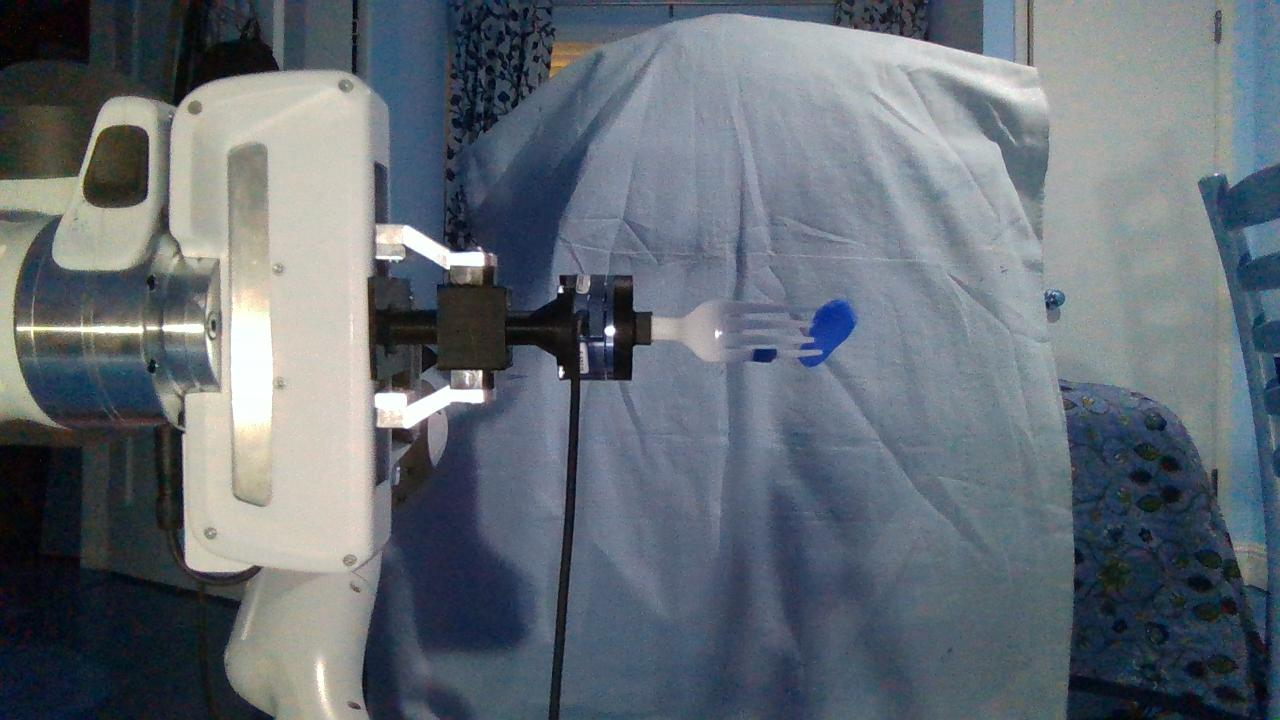
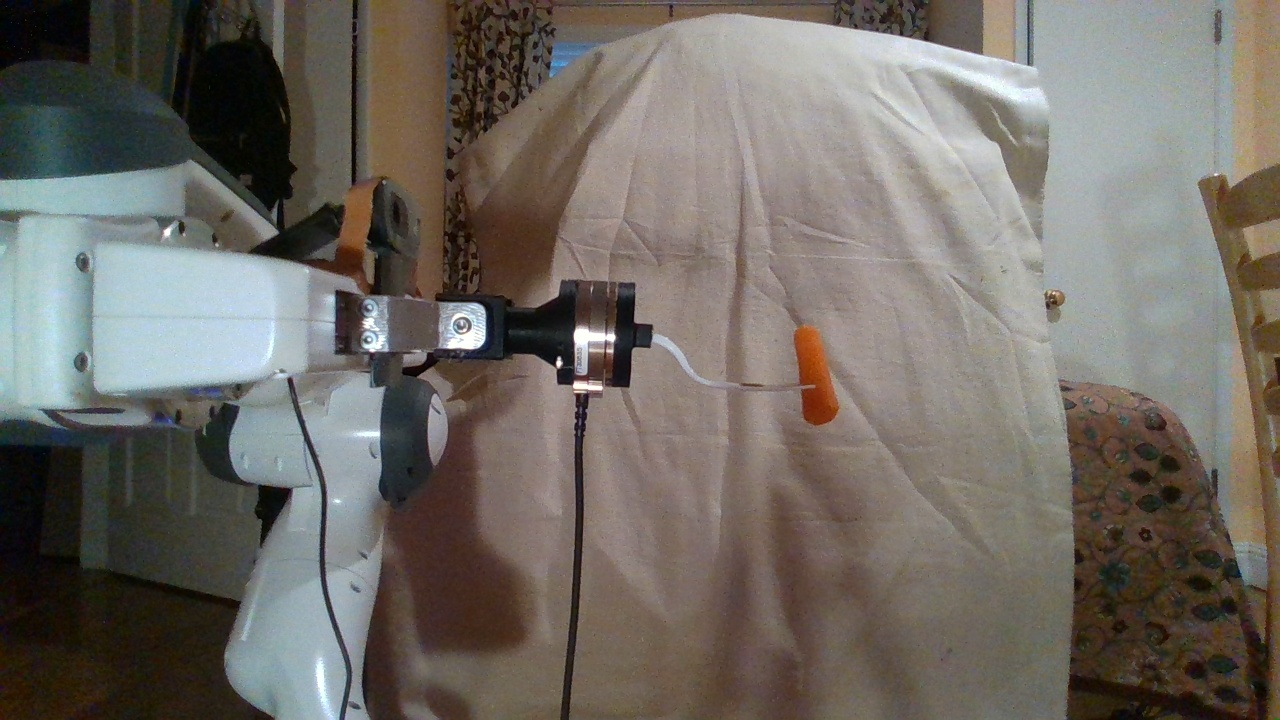
able to use opencv to filter out carrot and open3d to draw bounding box

diff --git a/point_carrot.py b/point_carrot.py
@@ -2,12 +2,72 @@ import open3d as o3d
 import matplotlib.pyplot as plt
 import numpy as np
 from PIL import Image
+import numpy as np
+import cv2
 
 data = np.load('carrot_rs_data_1.npz')
-color_img = Image.fromarray(data["rgb_images"][0], 'RGB')
-depth_img = Image.fromarray(data["depth_images"][0], 'L')
-color_img.save('color_carrot.jpg')
-depth_img.save('depth_carrot.png')
+#data = np.load('box_rs_data.npz')
+for k in data.files:
+	print(k)
+rgb_img = data["rgb_images"][1]
+depth_img = data["depth_images"][1]
+
+# convert to hsv. otsu threshold in s to remove plate
+hsv_img = cv2.cvtColor(rgb_img, cv2.COLOR_BGR2HSV)
+h,s,v = cv2.split(hsv_img)
+background = cv2.inRange(hsv_img, np.array([0,0,0]), np.array([200,190,255]))
+not_background = cv2.bitwise_not(background)
+fruit = cv2.bitwise_and(rgb_img,rgb_img,mask = not_background)
+
+#cv2.imshow('fruit',fruit)
+#cv2.waitKey(0)
+
+fruit_bw = cv2.cvtColor(fruit, cv2.COLOR_BGR2GRAY)
+fruit_bin = cv2.inRange(fruit_bw, 10, 255) #binary of fruit
+
+# #erode before finding contours
+kernel = cv2.getStructuringElement(cv2.MORPH_ELLIPSE,(3,3))
+erode_fruit = cv2.erode(fruit_bin,kernel,iterations = 1)
+
+#cv2.imshow('erode_fruit',erode_fruit)
+#cv2.waitKey(0)
+
+# #find largest contour since that will be the fruit
+img_th = cv2.adaptiveThreshold(erode_fruit,255,cv2.ADAPTIVE_THRESH_GAUSSIAN_C,cv2.THRESH_BINARY,11,2)
+contours, hierarchy = cv2.findContours(img_th, cv2.RETR_LIST, cv2.CHAIN_APPROX_SIMPLE)
+mask_fruit = np.zeros(fruit_bin.shape, np.uint8)
+largest_areas = sorted(contours, key=cv2.contourArea)
+if (len(largest_areas)==1):
+	fruit_contour = largest_areas[-1]
+else:
+	fruit_contour = largest_areas[-2]
+cv2.drawContours(mask_fruit, [fruit_contour], 0, (255,255,255), -1)
+
+#cv2.imshow('mask_fruit',mask_fruit)
+#cv2.waitKey(0)
+
+# #dilate now
+kernel2 = cv2.getStructuringElement(cv2.MORPH_ELLIPSE,(13,13))
+mask_fruit2 = cv2.dilate(mask_fruit,kernel2,iterations = 1)
+res = cv2.bitwise_and(fruit_bin,fruit_bin,mask = mask_fruit2)
+depth_img = cv2.bitwise_and(depth_img,depth_img,mask = mask_fruit2)
+#invert = cv2.bitwise_not(fruit_final) # OR
+#cv2.imshow('invert',invert)
+#cv2.waitKey(0)
+
+#filename = 'carrot2.png'
+#cv2.imwrite(filename, invert)
+
+cv2.imwrite('color_carrot.jpg', rgb_img)
+cv2.imwrite('depth_carrot.png', depth_img)
+#cv2.imshow('Color image', data["rgb_images"][0])
+#cv2.waitKey(0)
+#cv2.imshow('Depth image', data["depth_images"][0])
+#cv2.waitKey(0)
+#color_img = Image.fromarray(data["rgb_images"][0], 'RGB')
+#depth_img = Image.fromarray(data["depth_images"][0], 'L')
+#color_img.save('color_carrot.jpg')
+#depth_img.save('depth_carrot.png')
 
 color_raw = o3d.io.read_image("color_carrot.jpg")
 depth_raw = o3d.io.read_image("depth_carrot.png")
@@ -28,34 +88,34 @@ pcd = o3d.geometry.PointCloud.create_from_rgbd_image(rgbd_image,
 # Flip it, otherwise the pointcloud will be upside down
 pcd.transform([[1, 0, 0, 0], [0, -1, 0, 0], [0, 0, -1, 0], [0, 0, 0, 1]])
 print(pcd)
-o3d.visualization.draw_geometries([pcd])
+#o3d.visualization.draw_geometries([pcd])
 #downpcd = pcd.voxel_down_sample(voxel_size=0.00001)
 #o3d.visualization.draw_geometries([downpcd])
 
-points = [	[-0.0003,-0.0005,-0.001],
-			[0.0003,-0.0005,-0.001],
-			[-0.0003,-0.0001,-0.001],
-			[0.0003,-0.0001,-0.001],
-			[-0.0003,-0.0005,-0.0004],
-			[0.0003,-0.0005,-0.0004],
-			[-0.0003,-0.0001,-0.0004],
-			[0.0003,-0.0001,-0.0004]]
-lines = [[0,1],[0,2],[1,3],[2,3],[4,5],[4,6],[5,7],[6,7],[0,4],[1,5],[2,6],[3,7]]
-colors = [[1, 0, 0] for i in range(len(lines))]
-line_set = o3d.geometry.LineSet()
-line_set.points = o3d.utility.Vector3dVector(points)
-line_set.lines = o3d.utility.Vector2iVector(lines)
-line_set.colors = o3d.utility.Vector3dVector(colors)
-#o3d.visualization.draw_geometries([pcd,line_set])
+# points = [	[0.25,-0.1,-0.4],
+# 			[0.4,-0.1,-0.4],
+# 			[0.25,0,-0.4],
+# 			[0.4,0,-0.4],
+# 			[0.25,-0.1,-0.35],
+# 			[0.4,-0.1,-0.35],
+# 			[0.25,0,-0.35],
+# 			[0.4,0,-0.35]]
+# lines = [[0,1],[0,2],[1,3],[2,3],[4,5],[4,6],[5,7],[6,7],[0,4],[1,5],[2,6],[3,7]]
+# colors = [[1, 0, 0] for i in range(len(lines))]
+# line_set = o3d.geometry.LineSet()
+# line_set.points = o3d.utility.Vector3dVector(points)
+# line_set.lines = o3d.utility.Vector2iVector(lines)
+# line_set.colors = o3d.utility.Vector3dVector(colors)
+# o3d.visualization.draw_geometries([pcd,line_set])
 
-vol = o3d.visualization.read_selection_polygon_volume("cropped_carrot.json")
-chair = vol.crop_point_cloud(pcd)
-print(chair)
-o3d.visualization.draw_geometries([chair])
+# vol = o3d.visualization.read_selection_polygon_volume("cropped_carrot.json")
+# carrot = vol.crop_point_cloud(pcd)
+# print(carrot)
+#o3d.visualization.draw_geometries([carrot])
 
-aabb = chair.get_axis_aligned_bounding_box()
-aabb.color = (1,0,0)
-obb = chair.get_oriented_bounding_box()
-obb.color = (0,1,0)
-#o3d.visualization.draw_geometries([chair, aabb, obb])
+aligned_bounding_box = pcd.get_axis_aligned_bounding_box()
+aligned_bounding_box.color = (1,0,0)
+oriented_bounding_box = pcd.get_oriented_bounding_box()
+oriented_bounding_box.color = (0,1,0)
+o3d.visualization.draw_geometries([pcd, aligned_bounding_box, oriented_bounding_box])
 
